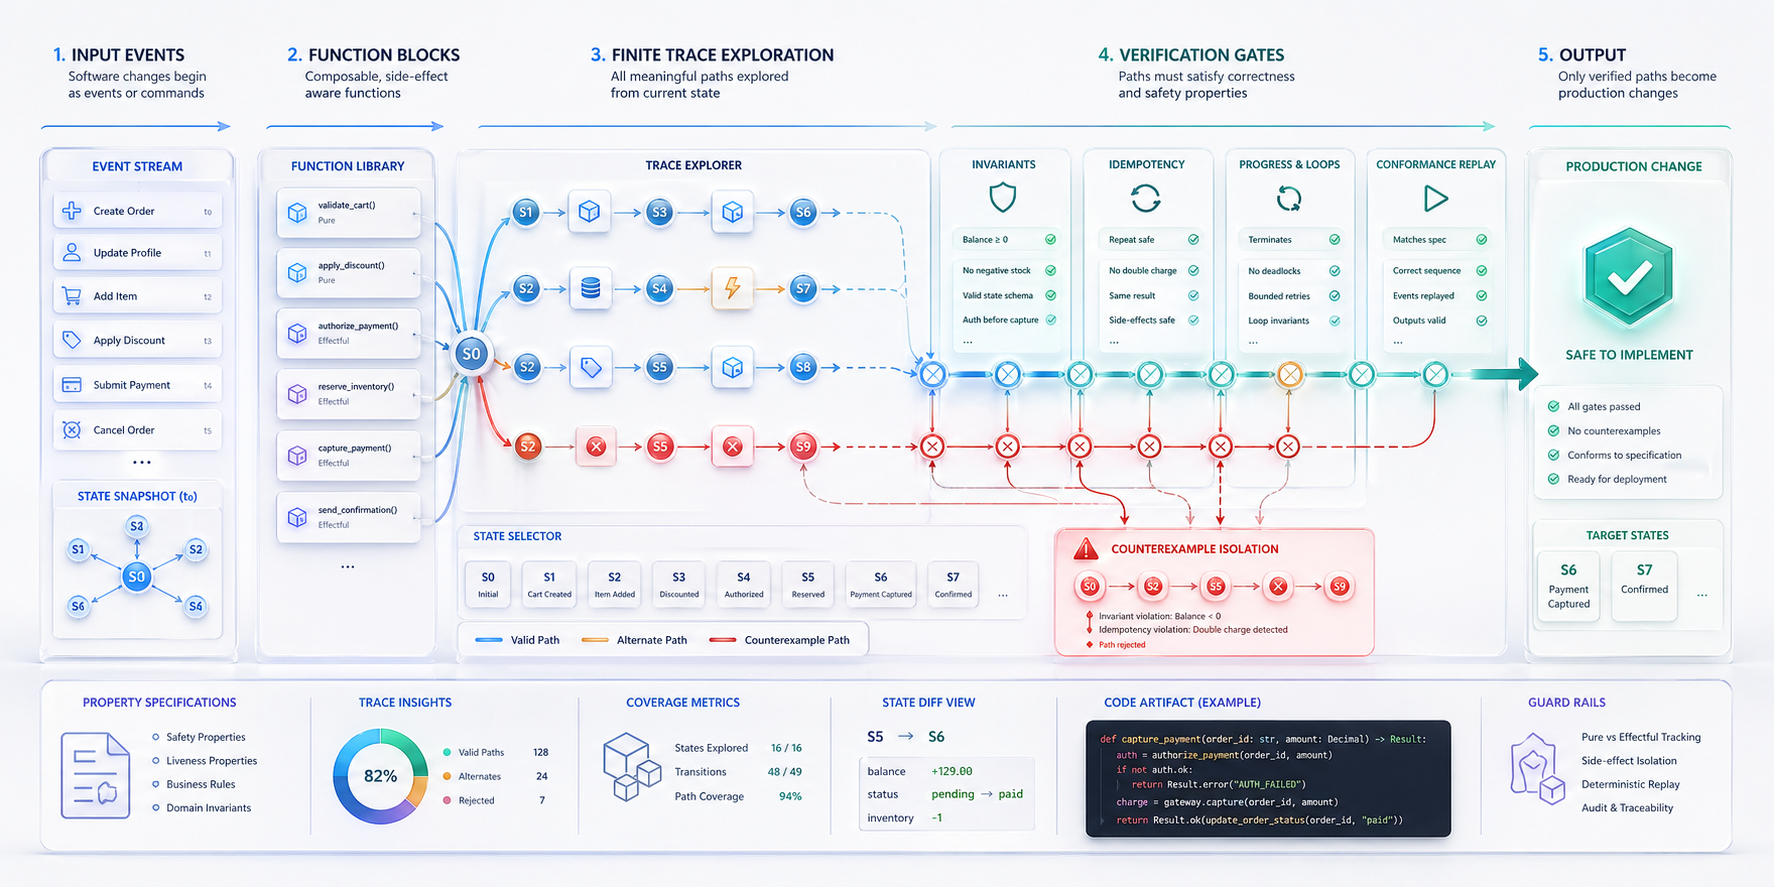
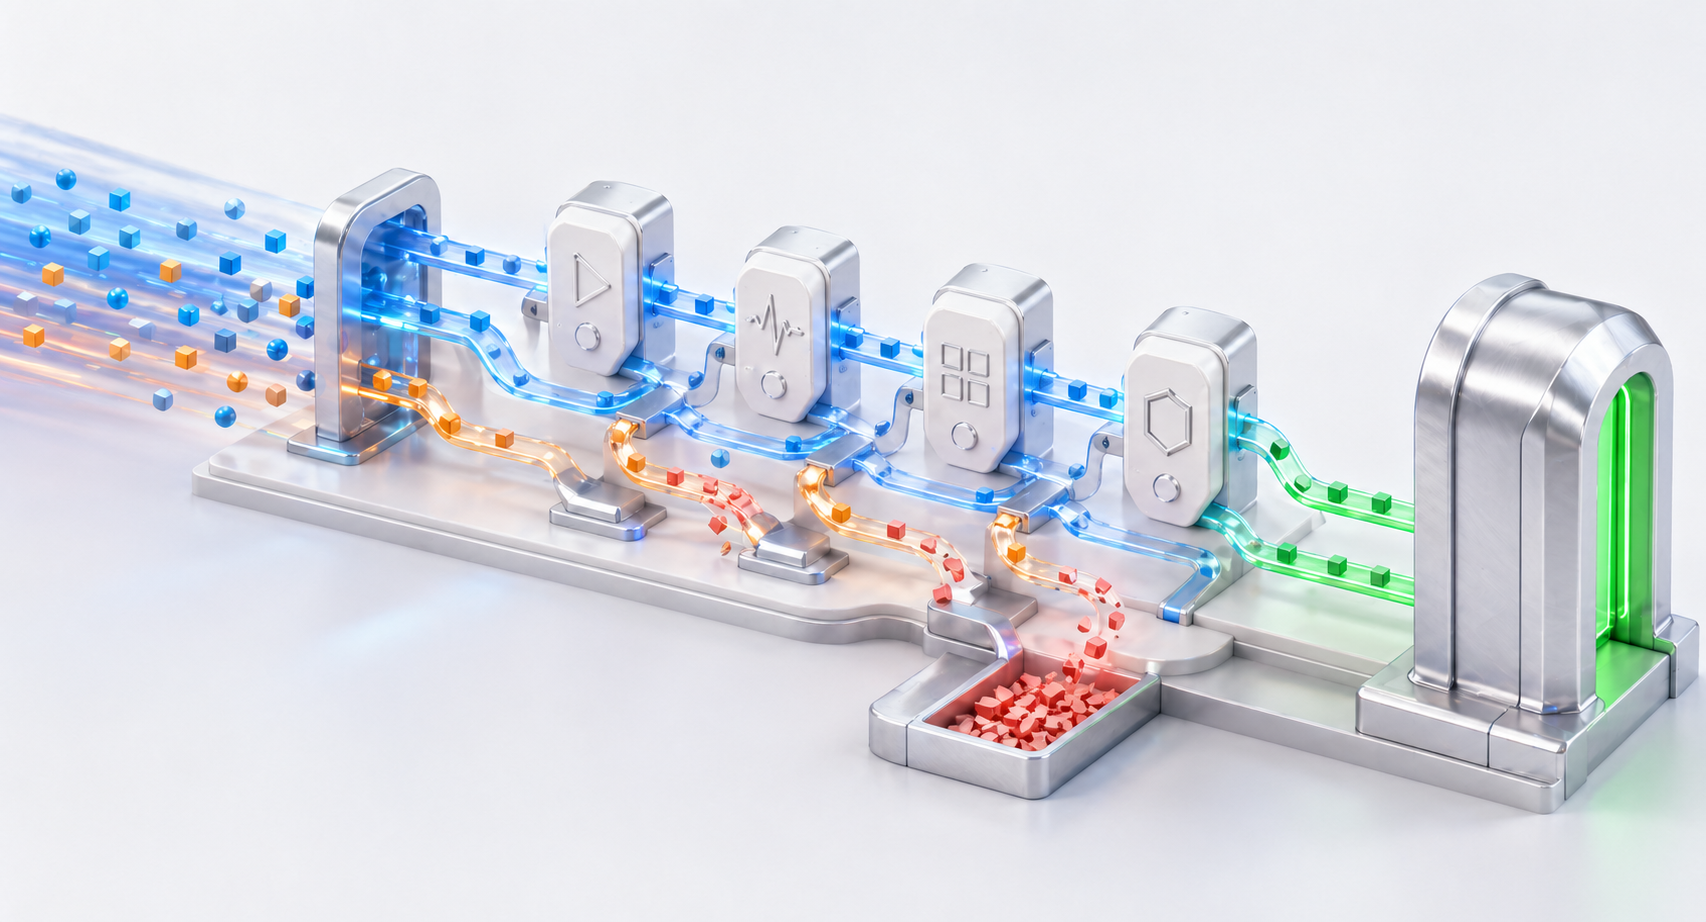
Replace README hero with artful workflow visual

diff --git a/assets/readme-hero/hero_prompt.md b/assets/readme-hero/hero_prompt.md
@@ -1,3 +1,3 @@
 # README Hero Prompt
 
-Create a bright wide GitHub README concept hero image for FlowGuard. Style: premium conceptual product diagram, semi-realistic 3D schematic, clean light background, bright cyan/blue/amber accents, modern technical but not dark. Visual meaning: software changes start as input events on the left, flow into composable function blocks, branch into finite trace paths, pass through clear verification gates for invariants, idempotency, progress/loop review, and conformance replay, then become a safe production change on the right. Show the red counterexample branches being caught and isolated before the final output. Use arrows, translucent nodes, state tiles, guard rails, and a small code artifact as visual objects. Make it understandable as a workflow checker for stateful software before implementation. Composition: wide banner, airy spacing, white/light gray studio background, clean perspective. Avoid: humanoid robots, people, dark lab, wall of screens, generic cybersecurity dashboard, unreadable black scene, cartoon style, anime, childish illustration, meme, watermark, logo, Chinese text, long paragraphs, gibberish text.
+Create a bright wide GitHub README concept hero image for FlowGuard. Premium art-directed conceptual workflow visual, semi-realistic 3D product-object render, clean light studio background, modern technical but not dark. Use a project-specific material language that is mostly brushed aluminum, matte ceramic, enamel, and fiber-optic light paths; avoid transparent glass as the dominant material. No words, no labels, no letters, no logo, no UI text anywhere in the image. Visual meaning: streams of blue and amber event tokens enter from the left, travel along branching finite trace rails through sculpted function-flow modules, then pass through four distinct ceramic verification gates represented only by icons and geometric symbols; red broken trace shards are diverted into a side containment tray; stable green paths reach a polished implementation gateway on the right. Make the purpose obvious visually: model-first checks catch broken stateful workflow paths before production code changes. Composition: wide airy banner, large-scale explainer sculpture, clear left-to-right stages, elegant motion paths, dimensional objects instead of flat boxes, no humanoid robot, no people, no dark room, no wall of screens. Avoid generic dashboard, purely decorative technology background, repeated template layout, cluttered flat flowchart, cartoon style, anime, childish illustration, watermark, readable text, pseudo text, Chinese text, long paragraphs, gibberish text.

diff --git a/assets/readme-hero/hero_design_note.md b/assets/readme-hero/hero_design_note.md
@@ -22,15 +22,19 @@ A model-first function-flow checker for agents and engineers changing stateful s
 
 ## Visual concept
 
-A bright product-diagram flow from input events through function blocks, finite trace exploration, verification gates, counterexample isolation, and safe production output.
+A bright verification-rail sculpture where event tokens branch into finite traces, pass through ceramic verification gates, divert counterexamples, and reach a green implementation gateway only after the model checks hold.
+
+## Material language
+
+Brushed aluminum rails, matte ceramic gates, enamel modules, fiber-optic trace paths, colored state tokens, and crystalline red counterexample fragments.
 
 ## Image keywords
 
-bright conceptual schematic, function-flow, finite traces, verification gates, counterexample isolation, safe implementation
+premium workflow visual, model-first verification, finite traces, ceramic gates, counterexample isolation, safe implementation
 
 ## Generation method
 
-Direct project-specific text-to-image generation using a bright conceptual schematic direction. This hero is not a reused SVG, HTML, Canvas, Pillow, robot-screen scene, or dark dashboard template.
+Direct project-specific text-to-image generation using a premium art-directed product-object workflow direction. The prompt selected a non-glass-dominant material system for this repository instead of reusing a generic transparent workflow template.
 
 ## File paths
 
@@ -40,4 +44,4 @@ Direct project-specific text-to-image generation using a bright conceptual schem
 
 ## README insertion position
 
-Updated the existing README HERO block after the first H1 heading.
+Existing README HERO block after the first H1 heading; image file replaced without rewriting the README body.
